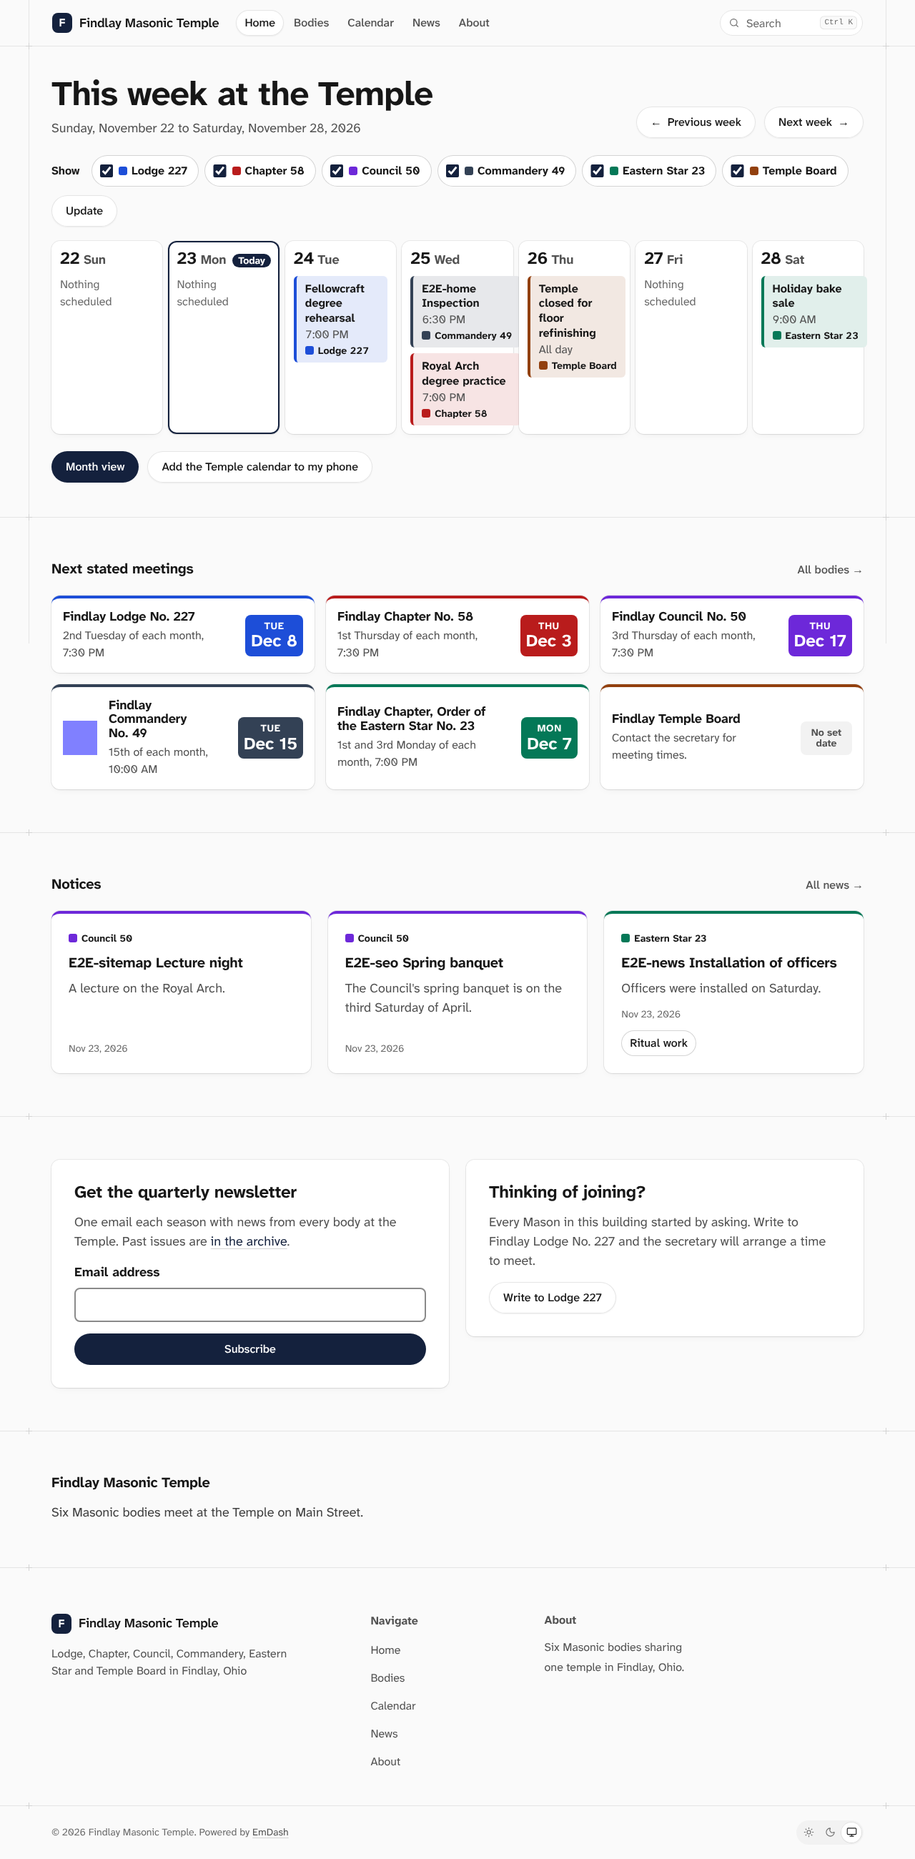
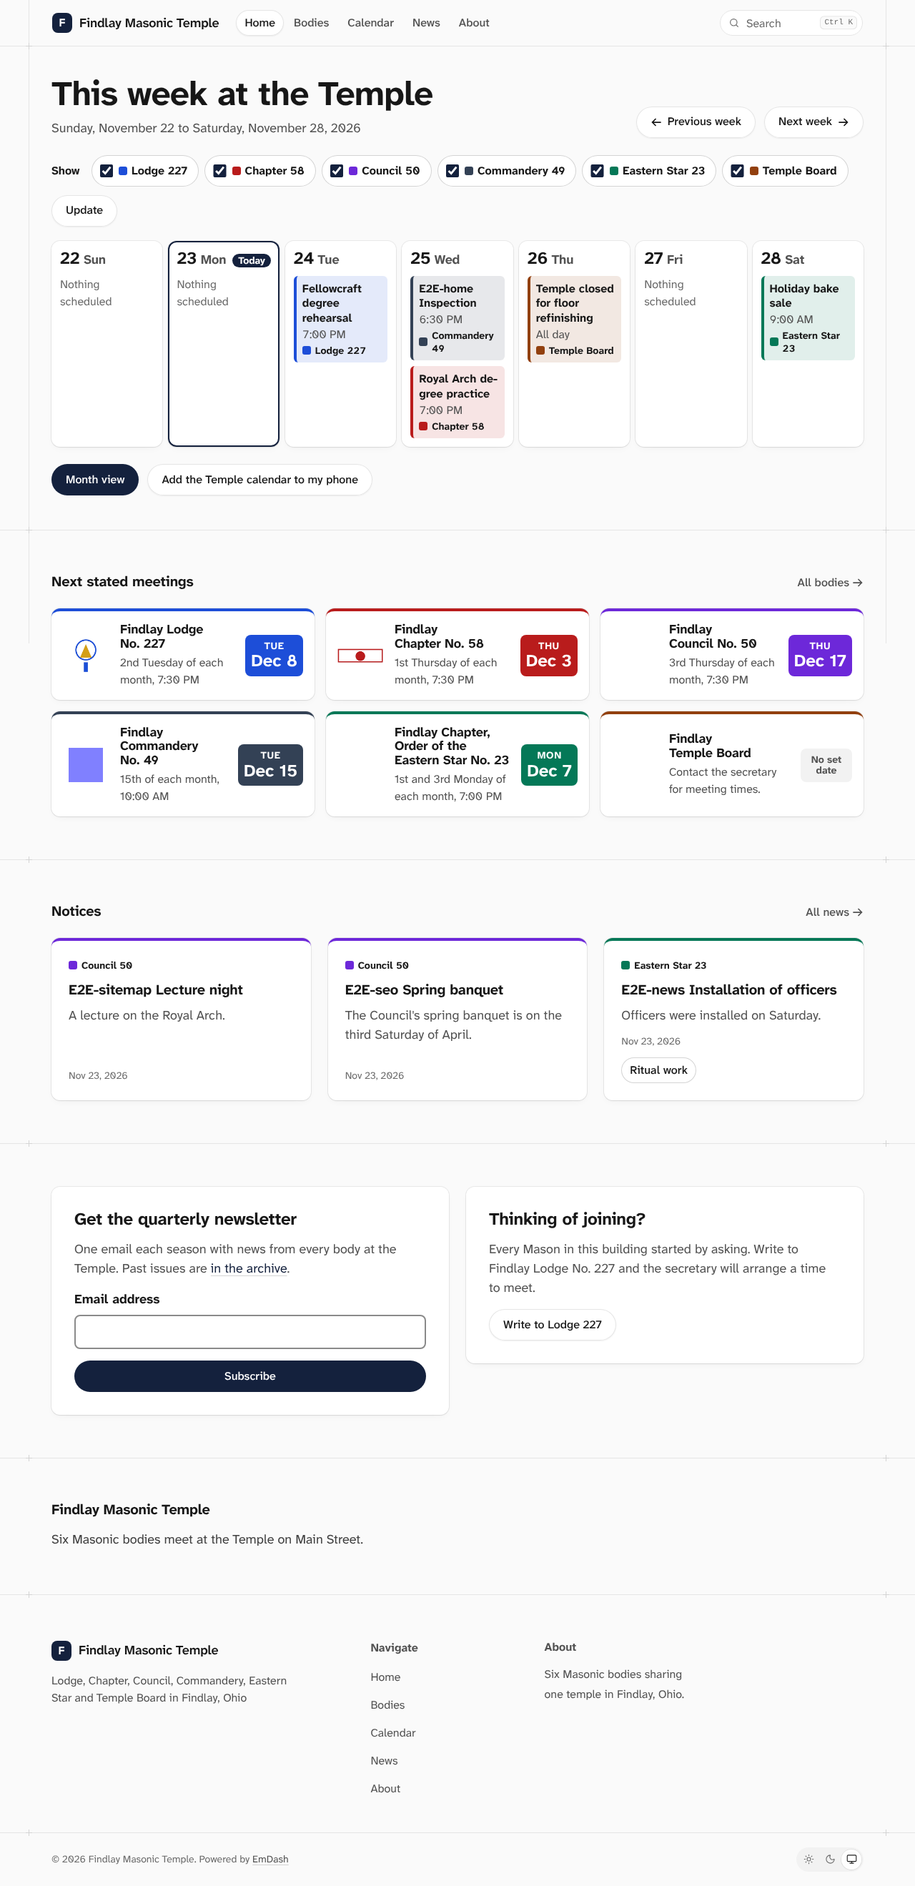
docs(plan-0001): direction C fixes, TC.1 to TC.8, with before and after screenshots
STATUS records the verification's findings, their cause, the fixes, the
visual checks that now catch them (21 failures on 6798ffe, none after), the
new dark Slate's ratios, the eleven differences from the mockup, and two open
actions: the astro.config.mjs comment (PATH_ASK) and whether the week should
stack below 1200 px. The built screenshots are refreshed with the realistic
content, and the before and after pairs sit beside them.

Claude-Session: https://claude.ai/code/session_012SJU1Uk4s8Njh2REbMXLMt

diff --git a/docs/plans/0001-findlay-masonic-platform/STATUS.md b/docs/plans/0001-findlay-masonic-platform/STATUS.md
@@ -15,7 +15,7 @@
 | M1 | Content model and seed | In progress: T1.1, T1.3, T1.7, T1.9–T1.11 done; T1.4–T1.6, T1.8 built, awaiting PATH_ASK approval; T1.2 lodge; T1.12 critic pending | Collections in admin, FR-9.2 test |
 | M2 | Pure core | In progress: T2.1–T2.16 done (1107 unit tests green, 100% statements, branches, functions and lines on acl and recurrence); T2.17 critic pending | Vitest green, 100% branch on acl/recurrence |
 | M3 | Auth + body-access | In progress: T3.1–T3.11, T3.14–T3.16 and red-team fixes T3.19–T3.30 done (48 e2e green locally; 100% on acl and recurrence); T3.12, T3.13 built, awaiting PATH_ASK approval; T3.17 human; T3.18 critic pending | FR-5 per-role e2e green |
-| M4 | Public site | In progress: T4.1 (the operator chose C) and T4.2–T4.12 done, direction C built (109 e2e green on a fresh database, 21 public, 23 axe, 3 visual; 2856 unit tests; axe 0 violations on 21 public routes in light and dark, an issue's email, a busy week and both plugin pages); T4.13 Lighthouse 100 in all four categories on the production build locally, staging waits on T0.16; T4.15, T4.16 built, awaiting PATH_ASK approval; T4.14 critic pending | FR-1/2/3/4/9.1 e2e, axe AA, Lighthouse ≥ 90 |
+| M4 | Public site | In progress: T4.1 (the operator chose C) and T4.2–T4.12 done, direction C built and its layout fixes done (TC.1 to TC.8; 150 e2e green on a fresh database, 21 public, 23 axe, 44 visual; 2856 unit tests; axe 0 violations on 21 public routes in light and dark, an issue's email, a busy week and both plugin pages); T4.13 Lighthouse 100 in all four categories on the production build locally, staging waits on T0.16; T4.15, T4.16 built, awaiting PATH_ASK approval; T4.14 critic pending | FR-1/2/3/4/9.1 e2e, axe AA, Lighthouse ≥ 90 |
 | M5 | Newsletter plugin | In progress, ahead of M4: T5.1–T5.12, T5.14, T5.15, T5.20 and fix round T5.21–T5.25 done (57 e2e green on a fresh database, 48 of them M3's; 2645 unit tests; production bundle checked for the SDK, keys, dev fakes and inlined runtime settings); T5.13 and T5.22 built, awaiting PATH_ASK approval; T5.16–T5.18 human; T5.19 critic pending | Staging send to allowlist + test Segment |
 | M6 | Content migration | Not started | Inventory resolved, redirects green |
 | M7 | Observability + hardening | In progress: the M4 verification fixes (B1, N1 to N6) and T7.1, T7.2, T7.4 to T7.6, T7.10 to T7.17 done; the M7 review fixes TR.1 to TR.14 done (B1, B2, M1, L1 to L5, L7, L8, S1 to S4), each with a test that failed first; T7.9, TR.11 and TR.12 built, awaiting PATH_ASK approval; T7.3, T7.7, T7.8 human; T7.18 code review and T7.19 critic open | Code-devil clean, Checkly 48 h green |
@@ -247,7 +247,7 @@ Run 2026-11-24 over every file TR.1 to TR.14 touched: `src/worker.ts`, `src/midd
 ## Direction C restyle (M4: T4.12, T4.13)
 The operator chose direction C, "Noticeboard", on 2026-11-24. The mockup, its notes and the reference screenshots are in `docs/design/direction-c/`; the built pages are in `docs/design/direction-c/built/` (home, `/bodies/blue-lodge` and the Temple calendar at 1280 and 390 px, light and dark, from the `visual` e2e project, which seeds a week like the mockup's).
 
-**Contrast.** `tests/unit/styles/contrast.test.ts` reads `tokens.css` and `theme.css` and checks every pair the design uses. Lowest ratios, light / dark: text on canvas 17.18 / 16.91; muted on canvas 5.11 / 6.12; brand ink on canvas 15.30 / 16.56; words on a date tile 5.48 (Green) / 9.26 (Blue); an entry's title on its tint 14.63 / 12.10 and its time 6.38 / 5.62 (Slate); a bar or swatch against the page 5.25 (Green) / 8.62 (Blue); a form field's border 3.31 / 3.61. Field borders got their own token (`--color-control-border`): the template's `--color-border-strong` is 1.5:1, under the 3:1 non-text minimum.
+**Contrast.** `tests/unit/styles/contrast.test.ts` reads `tokens.css` and `theme.css` and checks every pair the design uses. Lowest ratios, light / dark: text on canvas 17.18 / 16.91; muted on canvas 5.11 / 6.12; brand ink on canvas 15.30 / 16.56; words on a date tile 5.48 (Green) / 9.10 (Slate); an entry's title on its tint 14.63 / 12.44 and its time 6.38 / 5.77 (Green); a bar or swatch against the page 5.25 (Green) / 8.47 (Slate); a form field's border 3.31 / 3.61. Field borders got their own token (`--color-control-border`): the template's `--color-border-strong` is 1.5:1, under the 3:1 non-text minimum.
 
 **Lighthouse (T4.13, local).** `CHROME_PATH=<chromium> node tests/perf/lighthouse.mjs <url> 3` (M7's script, T7.11): Lighthouse 13.6.0, mobile defaults, three runs per page against the production build of 690fd54 under `wrangler dev`, with the e2e data and the visual sample week. Median (lowest) per category.
 
@@ -262,7 +262,7 @@ A single run with Lighthouse's desktop preset on an earlier build of this branch
 
 Before the restyle (M7's baseline) and on this branch's first pass, Best Practices was 96 on every page (a console 404 for `/favicon.ico`; the site now ships a default favicon in direction C's ink) and SEO 92 on the body page (no meta description; M7's `pageSeo` now supplies one). What this run cannot show: D1's network round trips, Cloudflare's compression and the Turnstile script, which the home page's signup loads when `TURNSTILE_SITE_KEY` is set and whose host this sandbox cannot reach. The staging run (T4.13's Verify) waits on T0.16.
 
-**As built against the mockup.** Compared by eye, page by page. The layout, type, colour use and the order of sections follow the mockup. Where they differ:
+**As built against the mockup.** Compared by eye, page by page. The layout, type, colour use and the order of sections follow the mockup. They differ in eleven places:
 
 1. The week runs Sunday to Saturday, not Monday to Sunday, to match the month grid (T4.2's Sunday-first decision) and American wall calendars.
 2. Each entry in the week strip carries its body's short name beside the colour; the mockup showed only the title and time, which would leave colour as the only label.
@@ -275,6 +275,17 @@ Before the restyle (M7's baseline) and on this branch's first pass, Best Practic
 9. The joining card's button names the body ("Write to Lodge 227"). The signup card on the home page posts to the subscribe route, which returns to the archive's copy of the form with the outcome; the mockup's "Autumn 2026 issue" line is "Past issues are in the archive".
 10. The home page's `home` entry (FR-9.1) appears as an introduction below the signup, under the site's name. The mockup had no introduction.
 11. There was no reference screenshot of the Temple calendar in C; it follows the same language: the page's name, the month with its previous and next links, the filter, the grid with coloured entries and a "Today" mark, the list of the month's events, and the feed.
+
+### Direction C fixes
+An independent verification of 6798ffe with realistic content failed it on layout. Blocking: week-strip entries spilled out of their day card (11 px at 1280, 47 px at 1001) and month-grid entries into the next day (1024 down to 761, where the page also scrolled sideways by 7 to 9 px); the news item page scrolled sideways at phone widths (131 px at 390, 201 px at 320, with the Eastern Star's full name); and home, `/calendar` and two body pages scrolled sideways at 320 px, against WCAG 1.4.10. Also: news card titles did not break a long word, the dark Slate read as grey, the face has no arrows, emblems of odd shapes were illegible and pushed names out of line, the search field's focus was only a border colour, and notice cards had two tab stops.
+
+**Cause.** Auto grid tracks size to their content's longest unbreakable run. The body label, `.btn` and `.arrow-link` were `white-space: nowrap`, and headings used `overflow-wrap: break-word`, which does not lower an item's minimum width; so a label, a button's words or a long title set the width of its day, card or page.
+
+**Fix (TC.1 to TC.8 in TASK.md).** Day cards, entry lists and entries take their width from the card (`minmax(0, 1fr)`); the body label, buttons and arrow links wrap, the label beside its swatch; section heads wrap their link under the title; headings and the quiet-week line use `overflow-wrap: anywhere`; entries pad 8 px a side (from 12), so "Commandery" fits a 1280 px day whole, and hyphenate where a word must break. Emblems sit in a 64 by 48 px slot (48 by 48 at 400 px and under) with `object-fit: contain`, and once any body has an emblem the others keep their names in line, except at 360 px and under, where the name needs the room more. The search field has the 2px ink outline. A notice card's body name is a label, not a second link. The arrows are an SVG mask in the text colour, since Atkinson Hyperlegible Next has no U+2190 or U+2192 in any subset (checked in the full variable font from google/fonts). Dark Slate is `#7ab8d6`, a steel blue at the other colours' lightness (OKLCH chroma 0.08, hue 230; it was `#cbd5e1`, chroma 0.02).
+
+**The lesson, encoded.** The `visual` e2e project now seeds the content the site will carry: the bodies' full names, a 60-character title, a 45-letter word, seven entries on one day, and a wide (480 by 150) and a tall (240 by 360) emblem. On that content it checks every public route (the shared `tests/e2e/public/routes.ts` list plus every body's page, calendar and news, the crowded week and month, a long-titled news item and a newsletter issue: 37 pages) at 320, 390, 768, 1024 and 1280 px for sideways scrolling, naming the elements that stick out; that every week-strip and month-grid entry, and its body's name, stays inside its day at those widths and at 761 and 1001, one pixel past each breakpoint; that emblems share one slot and names line up; and that the search field has a 2px outline. On 6798ffe with only the new tests, 21 of them failed (17 routes scrolling sideways, both calendars spilling, the emblems and the focus ring); with the fixes, all 44 visual tests pass. Before and after: `docs/design/direction-c/built/fix-week-1024-*.png`, `fix-month-1024-*.png`, `fix-news-item-320-*.png`.
+
+**Still tight.** Between 1001 and about 1200 px a day card has 75 to 100 px for text, so long words in titles and labels break, hyphenated where Chrome's dictionary knows the word ("commit-tee") and mid-word where it does not ("Thanksgiv ing", "Command ery"). Nothing spills, and the check holds. Stacking the week below 1200 px instead of 1000 would keep words whole, but it changes the design's breakpoint, so it is left to the operator (Open human actions).
 
 ### Design principles gates (direction C)
 Run 2026-11-24 over every file this round touched: the components and pages under `src/`, `src/layouts/Base.astro` (two lines: the mono `<Font>` and dead rules), `src/styles/theme.css`, `astro.config.mjs`, `playwright.config.ts`, and on the TypeScript side `src/lib/core/{bodies/colour,calendar/week,calendar/tile,calendar/month,time,newsletter/*}.ts`, `src/lib/adapters/{site/cache,site/views,emdash/parse,newsletter/content,newsletter/archive}.ts` and `src/plugins/newsletter/{theme,email-nodes,service}.ts(x)`.
@@ -331,6 +342,8 @@ The PR's Workers Builds deploy fails with `binding SESSION of type kv_namespace 
 - **Newsletter decisions (reversible):** compose in the admin page, not on the server (ADR-003: a headless editor needs `@tiptap/core` as a direct dependency, which moves EmDash admin's TipTap peers); article links go to the news item's own page, `/bodies/<slug>/news/<news slug>` (R8, added in M4); a section whose event list the Admin deleted gets none back at approval; the public form never clears a contact's global unsubscribe; the email theme in `src/plugins/newsletter/theme.ts` is a placeholder for the M4 design.
 - **T4.15 (PATH_ASK, M4):** in `astro.config.mjs`, `TURNSTILE_SITE_KEY` changes from `context: "client", access: "public"` to `context: "server", access: "secret"`, as T5.22 did for the newsletter settings: not a secret, but read from the Worker env at runtime, because only server-rendered forms use it. `wrangler.jsonc` declares it empty in `env.staging.vars` and `env.production.vars`; `worker-configuration.d.ts` is regenerated. One build now serves every environment, and the runbook no longer asks for the key at deploy time.
 - **T4.16 (PATH_ASK), direction C's schema and font:** approve by landing the PR. (a) `seed/seed.json` gains an optional `colour` select on `bodies` (Blue, Red, Purple, Slate, Green, Brown) and seeds each body with its type's colour (Lodge Blue, Chapter Red, Council Purple, Commandery Slate, Eastern Star Green, Temple Board Brown). A database seeded before this has no `colour` field: its bodies still show their type's colour, and an Admin adds the field (`POST /_emdash/api/schema/collections/bodies/fields` with the seed's field definition) for editors to change it. (b) `astro.config.mjs` loads Atkinson Hyperlegible Next through the local font provider from `src/assets/fonts/` (SIL OFL 1.1, licence beside the file) instead of Inter from Google: Astro's Google provider first fetches `fonts.google.com/metadata`, and where that host is unreachable (as in this sandbox) the build quietly falls back to sans-serif. JetBrains Mono is removed, since direction C has no mono labels; code and the search shortcut use the system's monospace. Only the latin subset ships; letters outside it fall back to sans-serif.
+- **Direction C fixes, `astro.config.mjs` comment (PATH_ASK):** the fix round drops "Direction C:" from the font's comment; nothing else in the file changes. Approve by landing the PR.
+- **Week strip breakpoint (operator, design):** from 1001 to about 1200 px the seven day cards are narrow enough that long words in titles and body names break (STATUS "Direction C fixes"). Moving the stacked week's breakpoint from 1000 to 1200 px would keep them whole on small laptops; say if you want it.
 - **Body colours (operator or lodge):** direction C's notes ask whether each body accepts its colour (the Commandery's black and red, the Eastern Star's own choice). An editor changes a body's **Calendar colour**; the six choices all pass AA in both schemes. Red (Chapter) and Green (Eastern Star) are close for deuteranopes; every colour sits beside the body's name.
 - **"Thinking of joining?" (default, reversible):** the home page's card writes to Findlay Lodge No. 227 (its contact form when set up, else its page). To lead elsewhere, change `JOINING_BODY` in `src/pages/index.astro`, or replace the card's link with a page or the Grand Lodge of Ohio.
 - **T4.13 on staging:** run `tests/perf/lighthouse.mjs` against staging once it is deployed (T0.16), with `TURNSTILE_SITE_KEY` set so the home page's Turnstile script is measured.
@@ -367,3 +380,4 @@ The PR's Workers Builds deploy fails with `binding SESSION of type kv_namespace 
 - 2026-11-24: M7 agent work on `claude/happy-bell-oj5yoo`: parked items a to d (refusal texts, the discard hint, a signup rate limit, id-shaped slugs staged by co-editing rooms refused at publish), a JSON-line logger with a redaction test, Axiom queries, five `@monitor` checks with Checkly constructs and a scheduler heartbeat, route caching on Cloudflare's Worker cache with a session opt-out (PATH_ASK) and a CI check of the cache headers, P95 before and after on the production build (server P95 3 to 22 ms locally, bound by D1 queries), a Lighthouse baseline of 100/100/96/100 on four pages, and runbooks for deploys, incidents, grant changes and monitoring setup. GitGuardian flagged a fabricated Turnstile-shaped constant in the log test (1d1ee72); the fixtures are now assembled at run time (b4cc1ff). Human: Axiom, Checkly and the 48-hour soak; agent: the M7 code review (T7.18) and the critic.
 - 2026-11-24: T4.1: the operator chose direction C, "Noticeboard". T4.12 on a local branch from `claude/happy-bell-oj5yoo`: the design record in `docs/design/direction-c/`; `theme.css` tokens and the six body colours (`data-colour`, light and dark, checked against AA by a unit test); a calendar-first home page (pure week strip, quiet week, GET body filter); body pages that open on the next stated meeting; every public component restyled; the email theme with body section bars and a title; clock-bound pages that expire at local midnight; Atkinson Hyperlegible Next served from the repository and a `colour` field on `bodies` (T4.16, PATH_ASK); a default favicon. Rebased on M7 (f0fc275): clock-bound pages keep the midnight cap under the edge cache, with `check-cache-headers.mjs` expecting it. On a clean copy of 690fd54 with a fresh database: 2856 unit tests, 109 e2e with `CI=true` (the SEO, monitor and visual projects among them), `astro check` 0 errors, lint and format clean, build, both dist checks and 13 of 13 cache header checks pass. T4.13 locally: M7's Lighthouse script, median of three, 100 in all four categories on `/`, a body page, `/calendar` and `/news` on the production build under `wrangler dev`; staging waits on T0.16.
 - 2026-11-24: M7 review fixes (TR.1–TR.14) on `claude/happy-bell-oj5yoo`, after an independent review of f0fc275 failed M7 on B1 and B2. B1: outside production the send gate now refuses signups and Broadcasts that would reach an address off the allowlist (the Segment is read through the mailer port and a Segment that cannot be read refuses). B2: the Worker awaits `runScheduledTasks` and pings the heartbeat only after it returns. Also: no opt-out reversed by the signup form (M1); no shared caching for a request with `Authorization` or a response with `Set-Cookie` (L1); email addresses replaced in every console line (L2); status messages read from own keys only (L3); one address per recipient (L4); rate-limit counters swept (L5); Turnstile hostname and action checked (L7); slug parameters decoded once (L8); purge failures logged through a wrapped cache provider (S1, PATH_ASK); cache per Worker version guarded, runbook purge step corrected (S2); Checkly `-e ENVIRONMENT_URL` (S3); `redact_query_string` in both environments (S4, PATH_ASK). L6 left as the operator decided. ADR-003 gains seven residual risks.
+- 2026-11-24: Direction C fixes (TC.1 to TC.8) on `claude/happy-bell-oj5yoo`, built on 6798ffe and rebased onto the M7 review fixes (a752033), after an independent verification failed it on layout with realistic content. The `visual` project first gained the checks that would have caught it (37 pages at five widths for sideways scrolling, entries inside their days, one emblem slot, the search focus ring) and failed 21 tests on 6798ffe; the CSS fixes then made all 44 pass. Dark Slate is now `#7ab8d6`; arrows are drawn; notice cards have one link. On a clean copy with a fresh database: 2856 unit tests, 150 e2e with `CI=true` (44 visual), axe 0 violations in light and dark, `astro check` 0 errors, lint and format clean, build, `check-dist`, `check-runtime-env` and 13 of 13 cache header checks pass.

diff --git a/docs/plans/0001-findlay-masonic-platform/TASK.md b/docs/plans/0001-findlay-masonic-platform/TASK.md
@@ -499,6 +499,29 @@ An independent verifier of the M4 functional half reported one blocking item (B1
   Verify: `CI=true pnpm e2e --project public -g Q12 --repeat-each 3 --workers 1` on a database earlier runs used.
   Evidence: before, 7 skipped; after, 18 passed and only the setup project's pre-existing stub skipped.
 
+## Direction C fixes
+An independent verification of 6798ffe with realistic content failed direction C on layout (STATUS.md "Direction C fixes"). TC.1 came first and failed on 6798ffe; each fix after it turned some of its failures green. Evidence was run on a clean copy (`git archive` into `/tmp/cfixrun`, `pnpm install --frozen-lockfile`, its own portless name, a fresh database) on 2026-11-24.
+
+- [x] **TC.1 [AGENT] The visual project checks layout on realistic content.** Seeds the bodies' full names, a 60-character title, a 45-letter word, seven entries on one day, and a wide and a tall emblem; checks 37 public pages at 320, 390, 768, 1024 and 1280 px for sideways scrolling, every week-strip and month-grid entry and its body's name inside its day (also at 761 and 1001 px), one emblem slot with names in line, and the search field's 2px outline. The a11y and visual projects share `tests/e2e/public/routes.ts`.
+  Verify: `pnpm e2e --project visual`.
+  Evidence: on 6798ffe with only the new tests, 21 failed and 129 passed: 17 routes scrolled sideways (home and `/calendar` by 23 px at 320 on "Add the Temple calendar to my phone"; the Eastern Star news item by 131 px at 390 and 201 px at 320 on its name; the Commandery and Eastern Star body pages on their arrow links), entries left their day by up to 58 px on both calendars, emblems had more than one size and names two indents, and the search field's outline was transparent.
+- [x] **TC.2 [AGENT] Entries, labels, buttons and titles wrap inside their boxes (a, D1 to D4).** `minmax(0, 1fr)` tracks on day cards, entry lists and entries; no `nowrap` on the body label, `.btn` or `.arrow-link`; `.section-head` wraps; headings break long words (`overflow-wrap: anywhere`); entries pad 8 px a side and hyphenate.
+  Verify: TC.1's sideways and spill checks.
+  Evidence: all pass; before and after at `docs/design/direction-c/built/fix-{week,month}-1024-*.png` and `fix-news-item-320-*.png`.
+- [x] **TC.3 [AGENT] One emblem slot.** 64 by 48 px (48 by 48 at 400 px and under), `object-fit: contain`; names in line once any body has an emblem, except at 360 px and under; the body page's emblem in a square slot.
+  Verify: TC.1's emblem check (one box size at every width, one indent above 320 px).
+  Evidence: passes with the wide, tall and 1 px emblems seeded.
+- [x] **TC.4 [AGENT] The search field's focus ring.** The 2px ink outline every other control has.
+  Verify: TC.1's focus check. Evidence: passes; it read `rgba(0, 0, 0, 0)` on 6798ffe.
+- [x] **TC.5 [AGENT] One link per notice card.** The body's name is a label; the title is the card's link.
+  Verify: the news and a11y suites. Evidence: pass.
+- [x] **TC.6 [AGENT] Drawn arrows (D6).** The face has no U+2190 or U+2192 in the latin file or the full variable font, so a subset cannot add them; an SVG mask in the text colour, with `forced-color-adjust: none`.
+  Verify: screenshots. Evidence: `docs/design/direction-c/built/home-1280.png` and the week, month and page links.
+- [x] **TC.7 [AGENT] A dark Slate that reads as a colour (D5).** `#7ab8d6` for `#cbd5e1`.
+  Verify: `tests/unit/styles/contrast.test.ts`. Evidence: 6 of 6 pass (tile 9.10, against the surface 8.47, time on tint 5.95); with `#3a4a5a` it fails 2 tests.
+- [x] **TC.8 [AGENT] Comments and STATUS.** Comments that narrated the design choice removed from `astro.config.mjs` (PATH_ASK), `playwright.config.ts` and the home page; the list of differences from the mockup counted (eleven).
+  Verify: review. Evidence: lint and format clean.
+
 ## M7 — Observability and hardening
 Design: logs as typed events (`src/lib/adapters/log.ts`), checks as code (`checkly.config.ts`), caching opt-in per route with a central opt-out for anything personal. Evidence was run as above on 2026-11-24. Human steps: [monitoring-setup.md](../../runbooks/monitoring-setup.md) and [deploy.md](../../runbooks/deploy.md).
 
